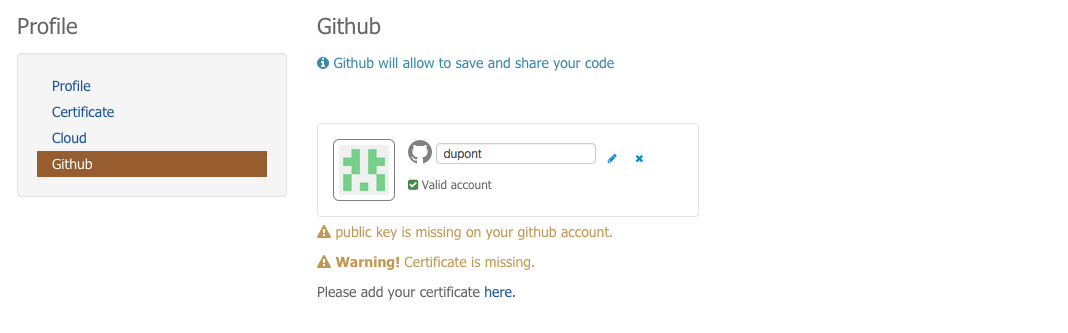
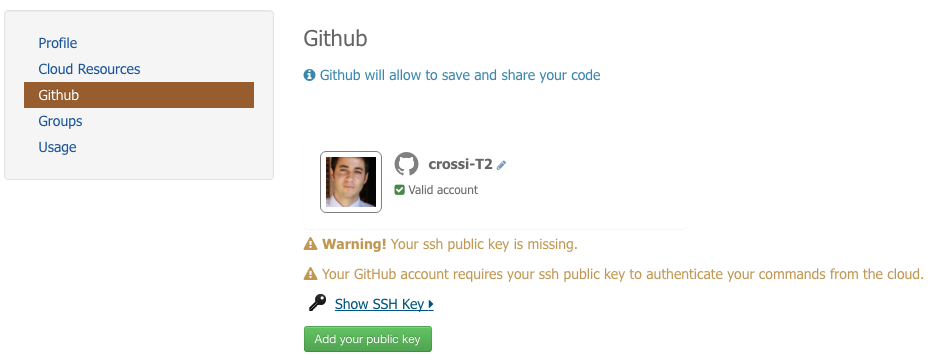
Removed certificates from User Profile

diff --git a/source/community-guide/user.rst b/source/community-guide/user.rst
@@ -12,7 +12,7 @@ User Profile
 Find out how to sign-in using **EO-SSO**, access your **Cloud** resources or even link your profile with your **Github** account.
 
 
-Sign in
+Sign-in
 -------
 
 Once registered on ESA EO Single Sign On (EO-SSO), you can simply sign-in using the username and password provided by ESA and you will be automatically redirected to the platform homepage.
@@ -66,35 +66,26 @@ To change your EO-SSO password:
 
 .. figure:: ../includes/user_profile_email_change.png
 	:figclass: img-border
-	:scale: 80%
 
 Access the Cloud Resources
 --------------------------
 
-To access the Cloud resources, you will need to have a valid certificate stored on the platform, as well as an account on the Cloud Controller.
+To access the Cloud resources, you will need to have an account on the Terradue Cloud Platform. To create an account:
 
+1. On your profile page, click on **Cloud Resources**
+2. Click on **Create**
 
-1. You don't have a valid certificate stored on the platform ? See `Upload your certificate`_.
-
-.. figure:: ../includes/cloud_certificate_missing.png
+.. figure:: ../includes/create_account.png
 	:figclass: img-border img-max-width
 	:scale: 80%
 
-2. You don't have an account on the Cloud Controller ? Create one by clicking on **Create**.
+3. Follow the instructions and see the Terradue Cloud Platform logo:
 
-.. figure:: ../includes/cloud_account_missing.png
+.. figure:: ../includes/cloud_resources.png
 	:figclass: img-border img-max-width
 	:scale: 80%
 
-3. You can see the cloud logo |sunstone_logo.png| ? Congratulations, all is correctly set up.
-
-.. figure:: ../includes/cloud_dashboard_ok.png
-	:figclass: img-border img-max-width
-	:scale: 80%
-
-Just click on it to be redirected to the Cloud Dashboard (powered by OpenNebula, see :doc:`Cloud Dashboard <cloud/dashboard>`).
-
-.. |sunstone_logo.png| image:: ../includes/sunstone_logo-small.png
+Just click on it to be redirected to the Cloud Dashboard, see :doc:`Cloud Dashboard <cloud/dashboard>`).
 
 Link your Github account
 ------------------------
